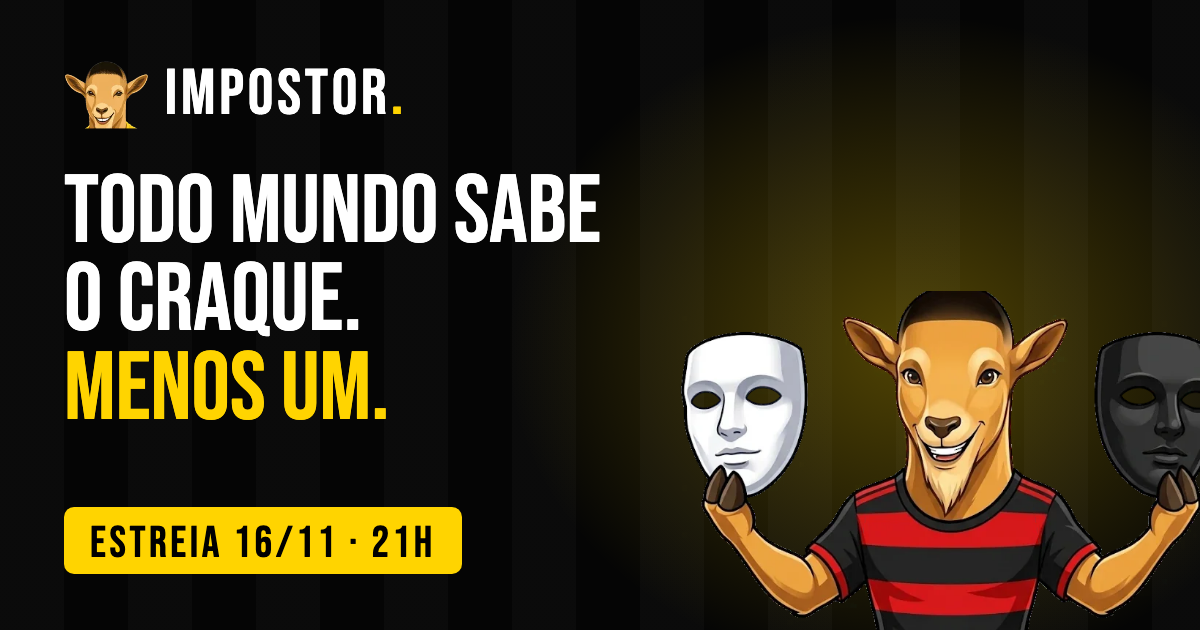
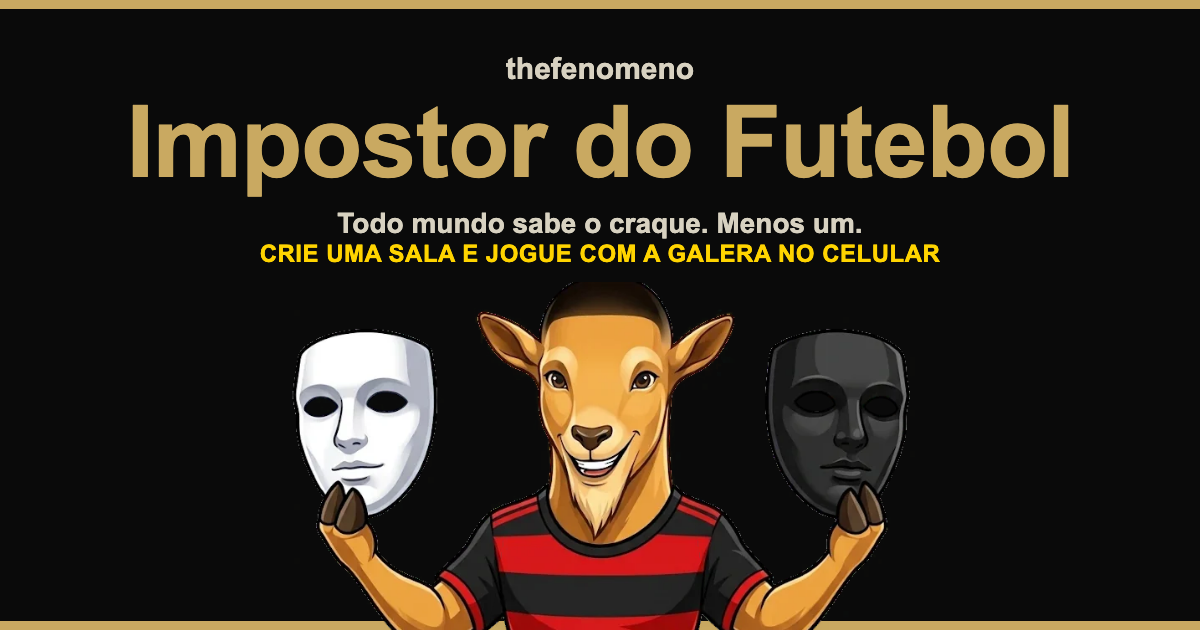
Previews de link no estilo dos outros jogos: um de pré-lançamento (espera) e um para depois

diff --git a/middleware.ts b/middleware.ts
@@ -10,7 +10,7 @@ const COOKIE = "impostor_key";
 const DEFAULT_OPEN_AT = "2026-11-17T00:00:00Z";
 
 // Públicos mesmo com o portão fechado: a própria página de espera e o que ela usa.
-const PUBLIC = [/^\/espera\/?$/, /^\/_astro\//, /^\/bode\.png$/, /^\/og\.png$/, /^\/img\/mascote\//, /^\/favicon/];
+const PUBLIC = [/^\/espera\/?$/, /^\/_astro\//, /^\/bode\.png$/, /^\/og(-prelaunch)?\.png$/, /^\/img\/mascote\//, /^\/favicon/];
 
 const enc = new TextEncoder();
 const norm = (k: string) => k.toUpperCase().replace(/[^A-Z0-9]/g, "");
